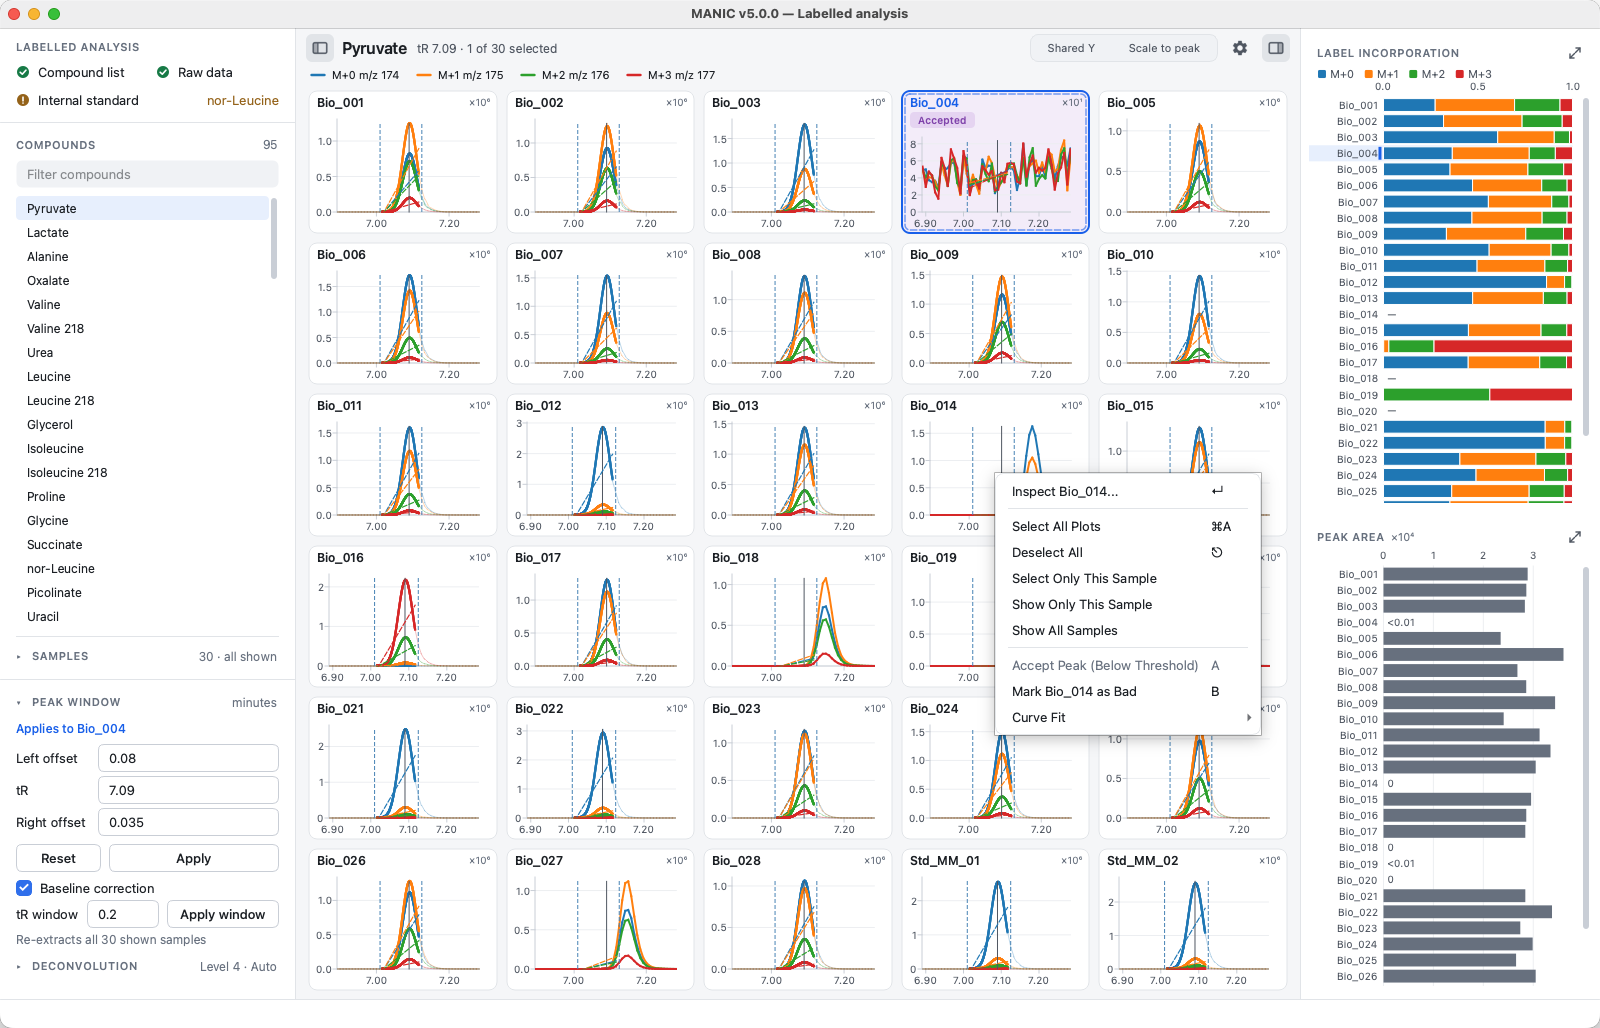
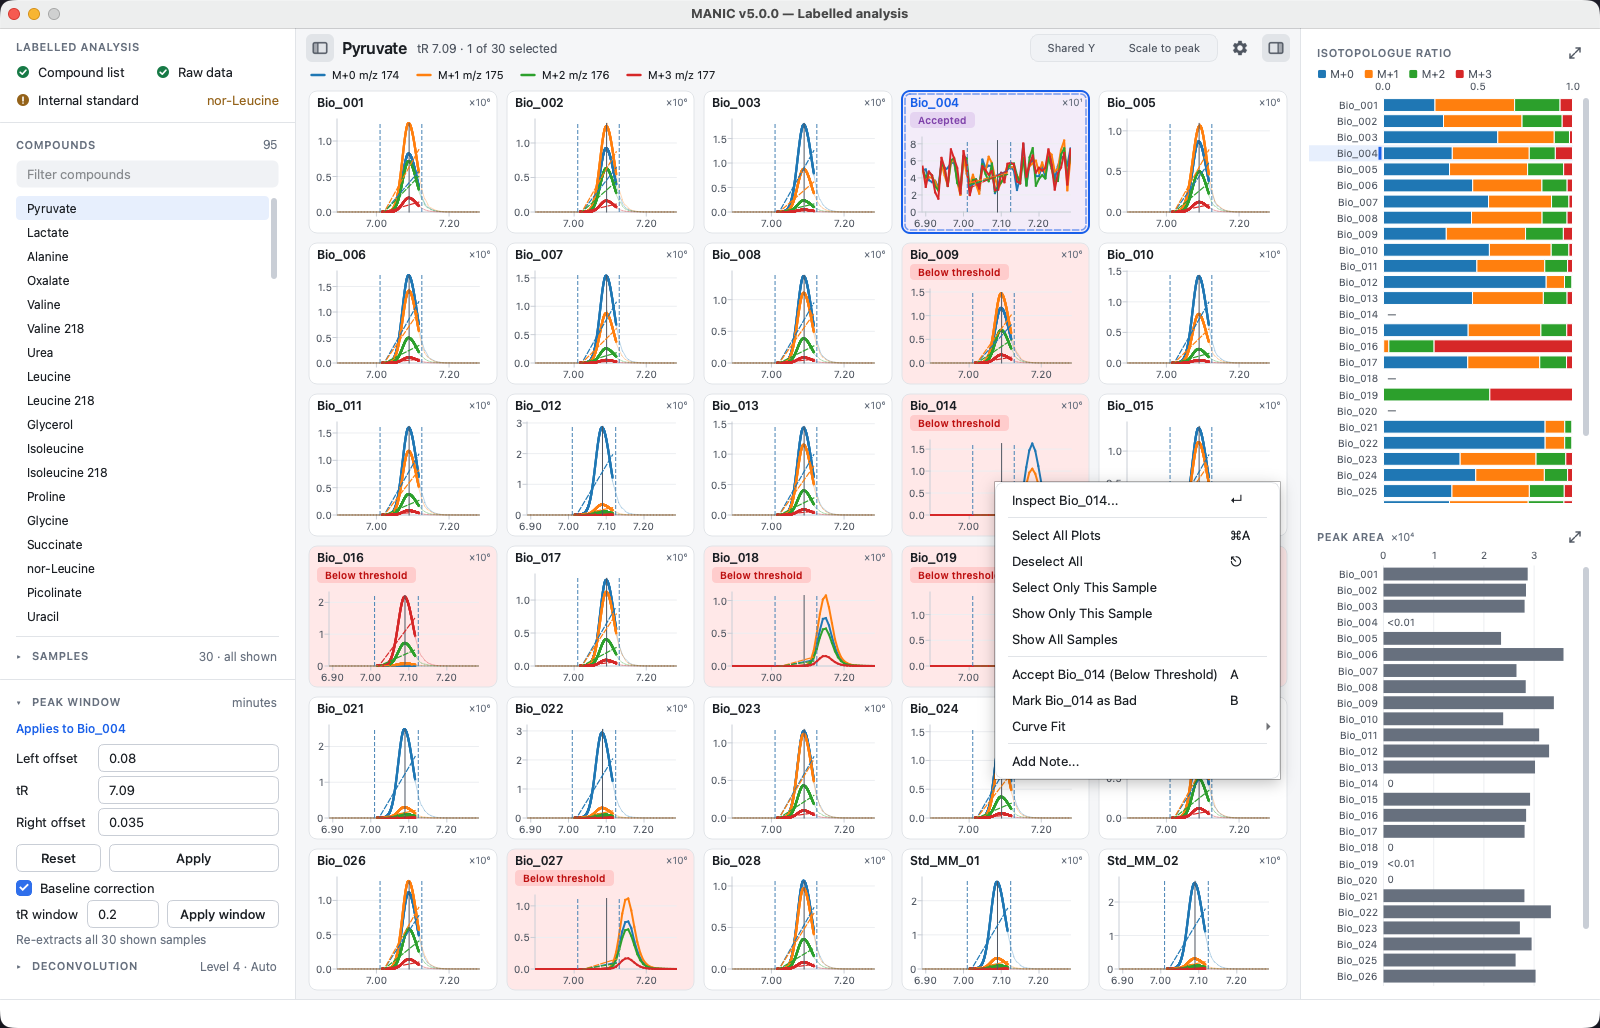
docs: refresh plot context menu and add relevant guide screenshots

diff --git a/docs/Reference_Chromatographic_Peak_Deconvolution.md b/docs/Reference_Chromatographic_Peak_Deconvolution.md
@@ -14,6 +14,8 @@ Deconvolution settings are per compound and apply to every sample. When the leve
 
 ## One fit for display and integration
 
+![Detailed view of one sample showing fitted curves over the faint raw signal and dashed baselines](_assets/screenshots/detail_view.png)
+
 When deconvolution is on and every non-empty ion of the compound in that sample has a usable model, the selected peak is a continuous analytic model (Gaussian, Bi-Gaussian, or EMG). Display and export use that same fitted model:
 
 - **Plots** draw the model on a dense grid, with the faint raw EIC underneath. [Natural Abundance Correction preview](#natural-abundance-correction-preview) changes what they draw.
@@ -71,6 +73,8 @@ The next sample of the same compound can still use model areas if every non-empt
 
 ## Per-Compound Settings
 
+![Settings, Deconvolution page](_assets/screenshots/settings_deconvolution.png)
+
 The resolution level, peak-shape fit type, and noise gate are stored **per compound** (persisted in the session database), not as a single global option. Each compound can use a different setting, and the choice applies to all of that compound's samples. The plot may show only some samples. Save still writes the compound row, so hidden samples use the same setting when you plot them or export.
 
 Settings are edited from **Settings → Deconvolution** with a compound selected. When the selected compound departs from the default, the status bar names its setting, and the settings are written to the export changelog so a processed result can be reproduced exactly.
@@ -84,6 +88,8 @@ The Deconvolution page includes an **"Apply to all compounds"** checkbox. When t
 A sample can override the compound fit type without changing resolution or the noise gate. Right-click selected plot tiles and choose **Curve Fit** (the **Review** menu has the same submenu), or use the **Per-sample curve fit** table in **Settings → Deconvolution**. The table has one row for every sample with an override and every sample selected in the plot area; the selected samples' rows open selected. The table follows the plot selection while Settings is open. Unsaved changes are kept, and a sample with an unsaved fit keeps its row after you deselect it. Each row is editable. Select rows and choose **Set fit for *N* selected** to change them together. With more than one override, **Remove all overrides** sets every row to **Use compound setting**. Nothing is written until Save. An override shows on the tile caption as `Sample  ·  Gaussian` (or Auto, Bi-Gaussian, EMG). Tiles that inherit the compound setting keep the sample name only. Export, session export, and the changelog use the same override. Choosing **Use Compound Setting** in the **Curve Fit** submenu, or **Use compound setting** in Settings, returns that sample to the compound fit type.
 
 ## Resolution Levels
+
+![Resolution choices in the sidebar Deconvolution section](_assets/screenshots/sidebar_deconvolution_levels.png)
 
 Chromatographic peak deconvolution can be turned off, or run at levels `1` through `7`.
 

diff --git a/docs/Reference_Natural_Isotope_Correction.md b/docs/Reference_Natural_Isotope_Correction.md
@@ -113,6 +113,8 @@ The areas that enter this correction must be the same kind of measurement on eve
 
 The **Show corrected data** preview (**Settings → Natural abundance**) still corrects every scan to draw the traces, and draws negative scans at 0; [Natural Abundance Correction preview](Reference_Chromatographic_Peak_Deconvolution.md#natural-abundance-correction-preview) describes what it draws. The drawn trace is a picture of the correction, not the number: an isotopologue whose corrected area is 0 can still show small positive blips. The Isotopologue ratio bars, the tile verdicts and the Corrected Values sheet all correct the integrated raw areas. Each time-based bar is one isotopologue's corrected area divided by the sample's total, so it equals the Isotope Ratio sheet number. Legacy export uses unit-spacing integration and different units.
 
+![Settings, Natural abundance page](_assets/screenshots/settings_natural_abundance.png)
+
 ---
 
 ## 4. Interpretation of Results

diff --git a/docs/Workflow_Process_External_Data.md b/docs/Workflow_Process_External_Data.md
@@ -40,6 +40,9 @@ Both workflows correct the integrated areas, so the correction is the same. With
 * **Matching Compound List:** A Compound Definition file (Step 1) that matches the metabolite names in your legacy file. This is required to provide the *Molecular Formulas* and *Label Atoms* needed for correction. MANIC checks each row as it does when you load a compound list. If a row is invalid, for example a labelled compound with no formula, MANIC names it beside the field and does not run.
 
 ### Steps
+
+![Process external data dialog](_assets/screenshots/process_external_data.png)
+
 1.  Choose **File → Process External Data...**.
 2.  In **Process external data**, set **Compounds file** with **Browse…**.
 3.  Set **Raw Values workbook** with **Browse…**. If a file cannot be used, the reason shows under its field and **Rebuild export…** stays off.

diff --git a/docs/Workflow_Data_Interpretation.md b/docs/Workflow_Data_Interpretation.md
@@ -96,6 +96,16 @@ When you export data from MANIC (Step 5), the application generates a multi-shee
 
 ---
 
+## 7. Notes
+**Description:** Every per-sample note you wrote during review, written as the last sheet in both labelled and unlabelled workbooks.
+
+* **Columns:** **Compound**, **Sample**, and **Note**.
+* **Order:** Rows follow the compound list order, then the sample order within each compound.
+* **Empty state:** When no notes exist, the sheet is still written with its header row only.
+* **Effect on numbers:** None. Notes record context for downstream review and never change any calculated value.
+
+---
+
 ## Color Codes & Validation
 MANIC automatically validates every peak during export. You may see coloured cells in your Excel file:
 

diff --git a/docs/Reference_Peak_Validation.md b/docs/Reference_Peak_Validation.md
@@ -42,6 +42,9 @@ $$\text{Area}_{metabolite} < (\text{Area}_{IS} \times \text{Threshold})$$
 The validation status is communicated in two places:
 
 ### 1. In the Application (Step 4)
+
+![Plot grid showing Accepted and Marked bad review badges beside normal plots](_assets/screenshots/review_selected.png)
+
 When reviewing integration, look under each plot's sample name:
 
 * **No badge:** The peak meets the threshold, or no internal standard is set, so it was not checked.
@@ -57,6 +60,8 @@ Every sheet of the results workbook fills a peak's cells by its status:
 ---
 
 ## 3. Configuration
+
+![Settings, Peak validation page](_assets/screenshots/settings_peak_validation.png)
 
 You can adjust the strictness of this check in the settings.
 

diff --git a/docs/Reference_Integration_Methods.md b/docs/Reference_Integration_Methods.md
@@ -55,6 +55,8 @@ $$\text{Area} = \sum_{i=start}^{end-1} \frac{(I_i + I_{i+1})}{2} \times 1$$
 
 ## Configuration
 
+![Settings, Integration page](_assets/screenshots/settings_integration.png)
+
 **Settings → Integration** has two **Method** radios.
 
 * **Time-based (recommended)** (default): uses time-based integration on screen.

diff --git a/docs/Reference_Mass_Tolerance.md b/docs/Reference_Mass_Tolerance.md
@@ -44,6 +44,8 @@ A mass that lies exactly on a window edge depends on how the instrument stored i
 
 ## Configuration
 
+![Settings, Extraction page](_assets/screenshots/settings_extraction.png)
+
 **Settings → Extraction**, **Mass tolerance (Da)**   
 
 * **Default:** `0.20 Da`
